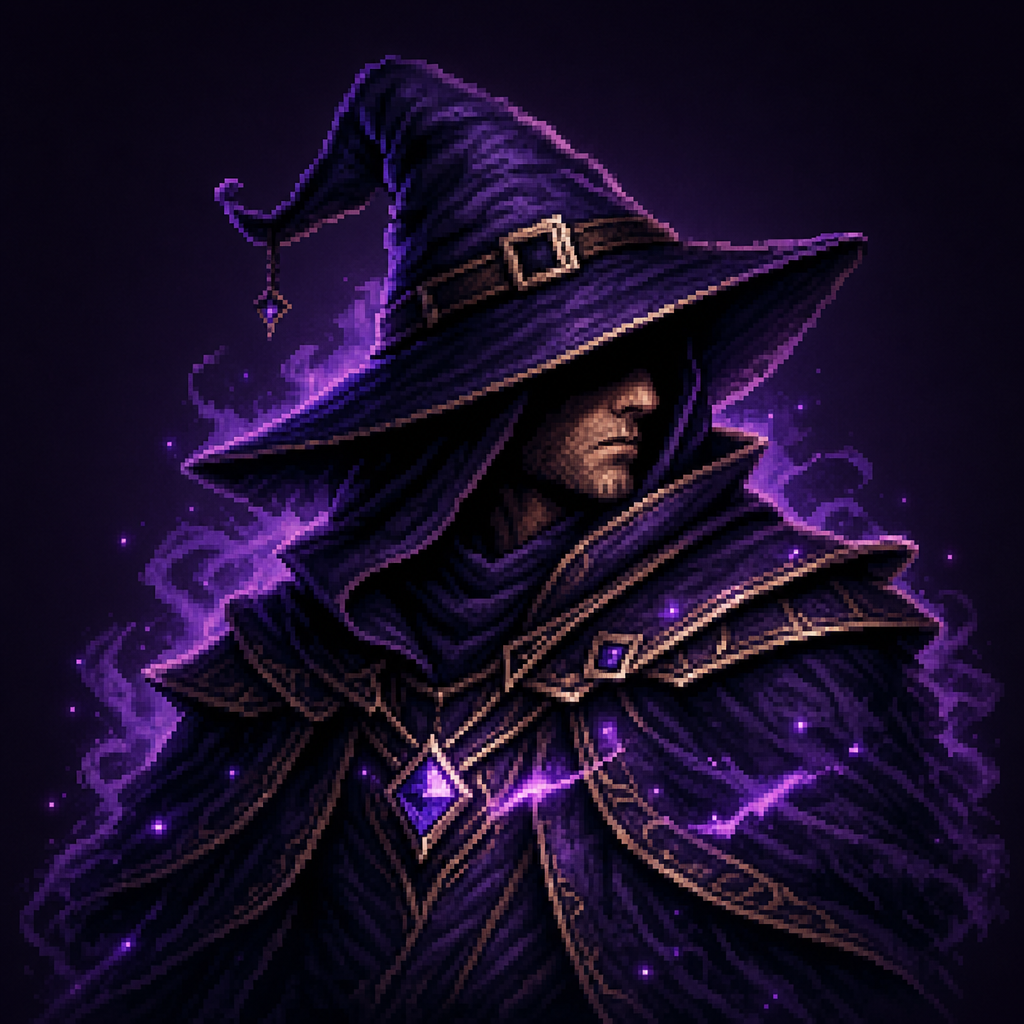
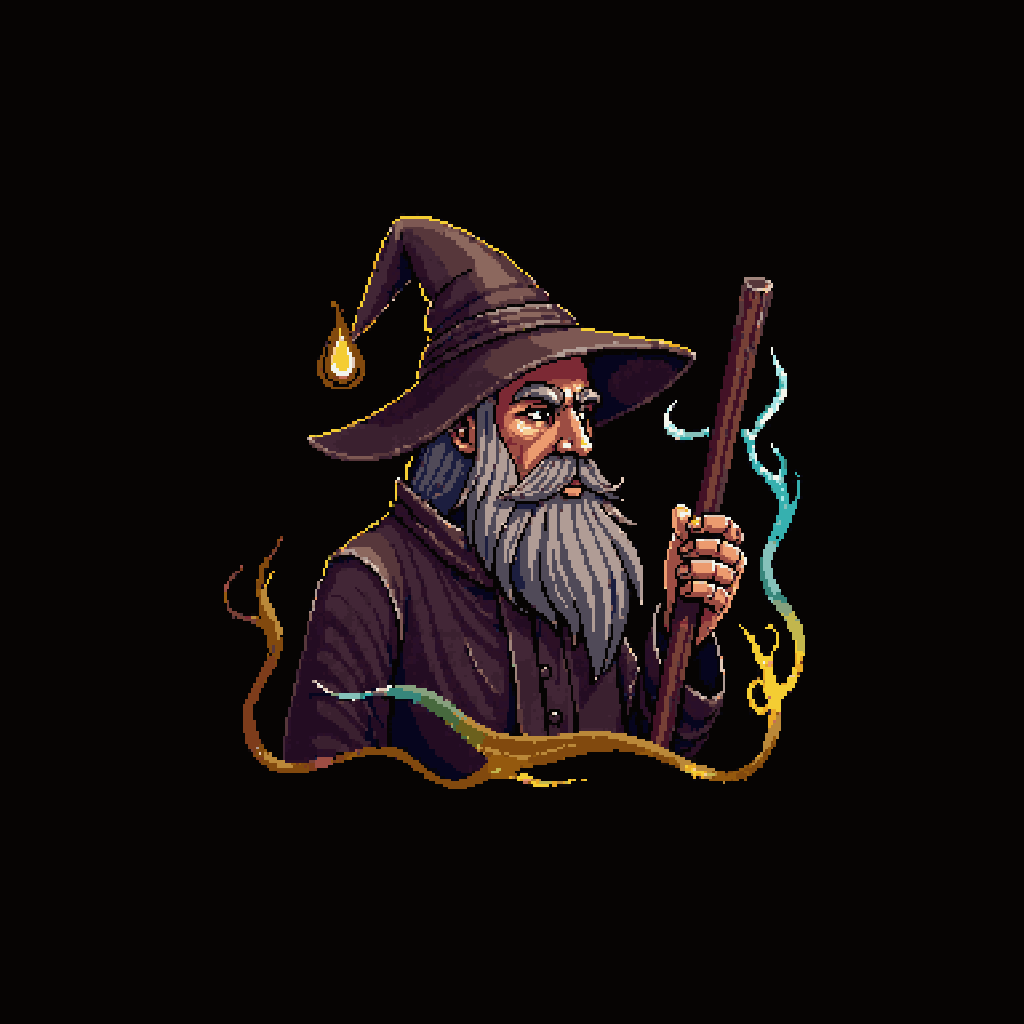
Assets: individuelle Portraets fuer Spieler + alle 12 Gegner, Pro-Kampf-Hintergruende (Turm-Aufstieg)
Ersetzt das bisherige Ein-Portraet-fuer-alle-Gegner-Setup (enemy.png als
einziger Fallback) durch 12 individuelle Gegner-Portraets, passend zur
jeweiligen Passiv-Fantasie (z.B. Schattenlaeufer: kalte blaue Konturen,
Runenkonstrukt: gesichtsloser Stein-/Kupfer-Golem, Erster Erzmagier:
asymmetrische Mehrfarb-Magie aller sechs Schulen). Spieler-Portraet auf
klassischen Zauberer (Hut, Bart, Stab) umgestellt.

Neu: 12 Kampf-Hintergruende (assets/backgrounds/fights/{enemy.id}.png),
inszeniert als Aufstieg durch das Innere eines Turms/einer Zauberschule --
jede der zwoelf Kammern spiegelt den jeweiligen Gegner (z.B. verwilderte
Bestien-Hoehle, Fleischformer-Labor, Runenschmiede), nur der Endboss
kaempft auf dem offenen, runden Turmdach. Bildsprache/Stil bewusst am
Startscreen-Hintergrund ausgerichtet (Daemmerungshimmel, gleiche
Farbpalette).

Technisch: setFightBackground() (renderer.js) setzt die CSS-Custom-Property
--fight-background beim Kampfstart (game.js, showFightScreen), style.css
nutzt sie mit Fallback auf den bisherigen generischen
battlemages_gamescreen.png -- rein additiv, keine Kampflogik beruehrt.
Gegner-Portraets brauchten keinen Code-Change (bestehende
entityId-basierte Pfadauflösung in portraitRegistry.js greift automatisch).

diff --git a/src/renderer.js b/src/renderer.js
@@ -208,6 +208,14 @@ function setAppScreenMode(mode) {
         "app-selection"
     );
 
+    // Zuruecksetzen auf den generischen Kampfbildschirm-Hintergrund bei
+    // jedem Screen-Wechsel -- showFightScreen() (game.js) ist die einzige
+    // Stelle, die ihn per setFightBackground() danach wieder ueberschreibt.
+    // Ohne diesen Reset wuerde der zuletzt gesetzte Kampf-Hintergrund in
+    // Recap/Kompendium/Statistik-Screens haengen bleiben, die ebenfalls
+    // den "game"-Modus nutzen, aber kein eigener Kampf sind.
+    document.documentElement.style.removeProperty("--fight-background");
+
     const screenClass =
         mode === "home"
             ? "app-home"
@@ -217,6 +225,22 @@ function setAppScreenMode(mode) {
 
     document.body.classList.add(screenClass);
     document.documentElement.classList.add(screenClass);
+}
+
+// Pro-Kampf-Hintergrund (2026-07-29): setzt eine CSS-Custom-Property statt
+// eine eigene Stylesheet-Regel pro Gegner zu pflegen. Fehlt fuer einen
+// Gegner (noch) kein Bild unter assets/backgrounds/fights/{id}.png, faellt
+// die CSS-Regel automatisch auf den bisherigen generischen Hintergrund
+// zurueck (var(..., fallback)) -- kein Broken-Image-Risiko.
+function setFightBackground(enemyId) {
+    if (!enemyId) {
+        return;
+    }
+
+    document.documentElement.style.setProperty(
+        "--fight-background",
+        `url("assets/backgrounds/fights/${enemyId}.png")`
+    );
 }
 
 function playScreenTransition(callback) {

diff --git a/style.css b/style.css
@@ -2968,7 +2968,10 @@ html.app-selection {
             rgba(8, 10, 14, 0.32),
             rgba(8, 10, 14, 0.38)
         ),
-        url("assets/backgrounds/menus/battlemages_gamescreen.png");
+        var(
+            --fight-background,
+            url("assets/backgrounds/menus/battlemages_gamescreen.png")
+        );
     background-position: center center;
     background-size: cover;
     background-repeat: no-repeat;
@@ -2986,7 +2989,10 @@ body.app-selection {
             rgba(8, 10, 14, 0.32),
             rgba(8, 10, 14, 0.38)
         ),
-        url("assets/backgrounds/menus/battlemages_gamescreen.png");
+        var(
+            --fight-background,
+            url("assets/backgrounds/menus/battlemages_gamescreen.png")
+        );
     background-position: center center;
     background-size: cover;
     background-repeat: no-repeat;

diff --git a/src/game.js b/src/game.js
@@ -267,6 +267,7 @@ function showFightScreen() {
     const enemy =
         enemies[currentFight];
 
+    setFightBackground(enemy.id);
     recordSeenEnemy(enemy.id);
 
     // VFX-Canvas ist ausschliesslich auf dem Kampfbildschirm sichtbar
